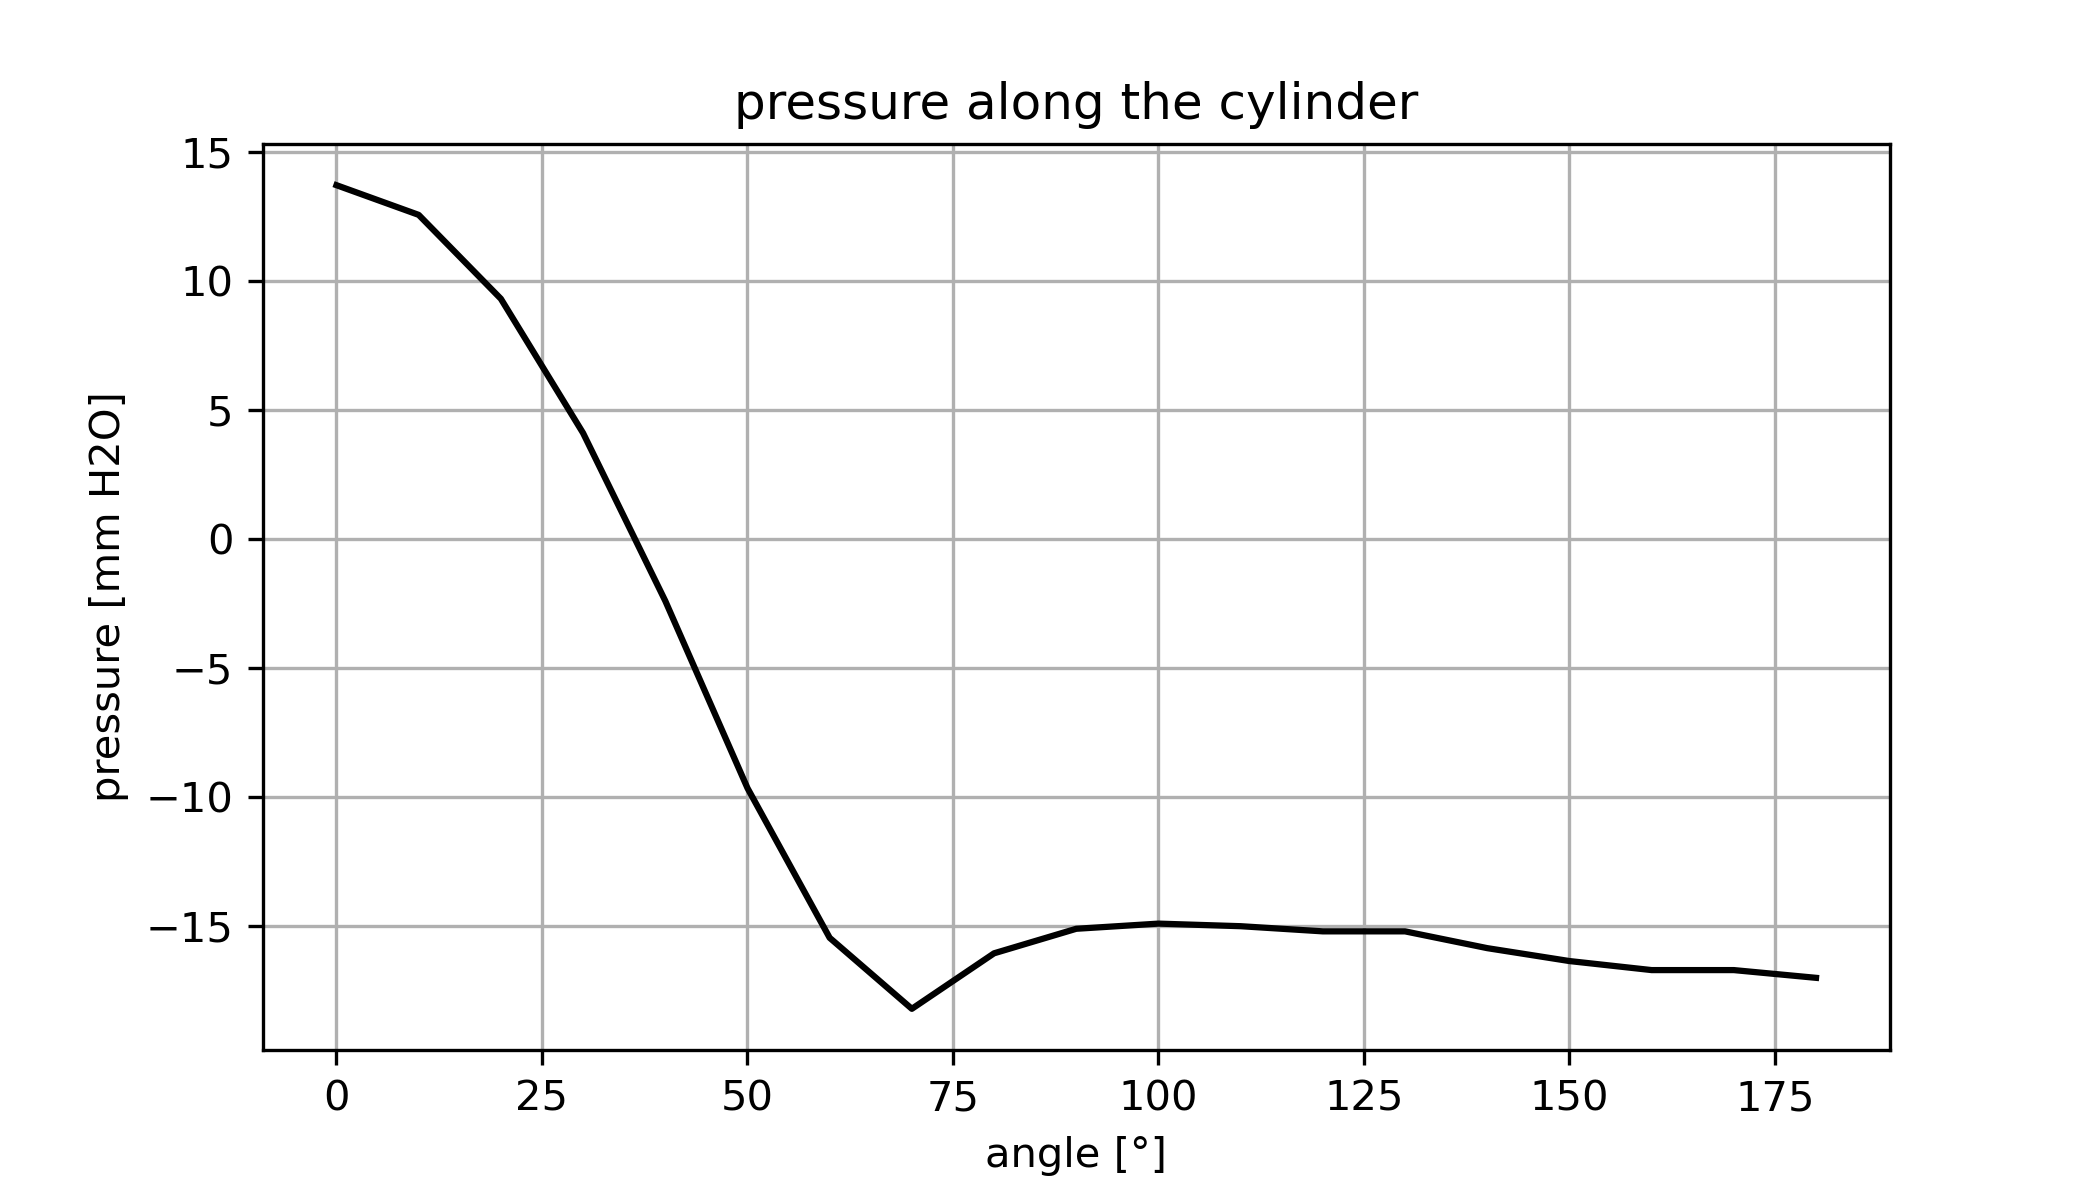
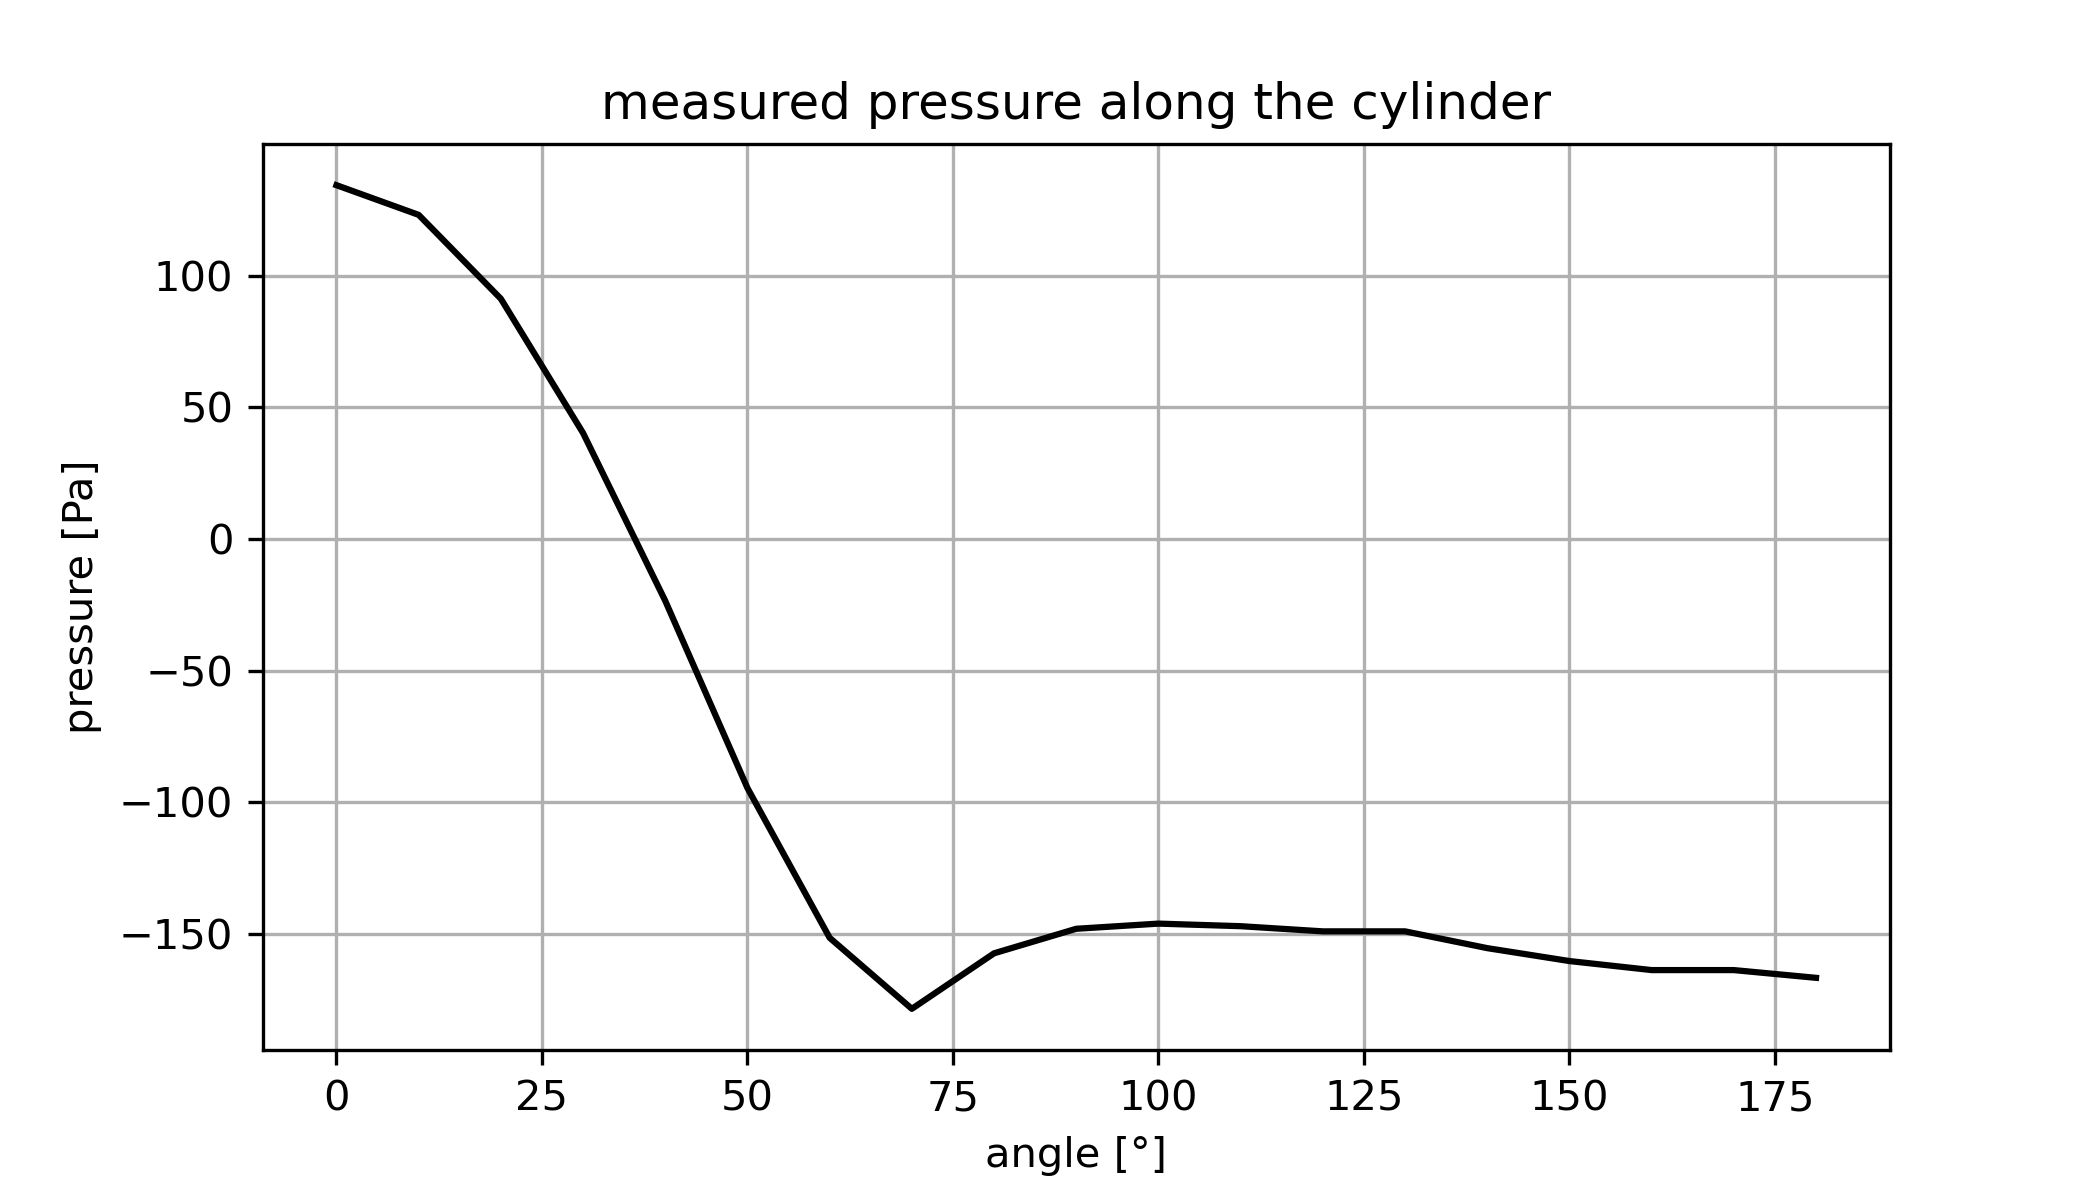
added a lot of things mdr

diff --git a/code.py b/code.py
@@ -5,7 +5,7 @@ import matplotlib.pyplot as plt
 Force = np.array([0, 0.0682, 0.182, 0.295, 0.408, 0.522, 0.635, 0.748, 0.975])*9.81
 Tension = np.array([0.65, 0.97, 1.51, 2, 2.57, 3.1, 3.62, 4.14, 5.12]).reshape((-1, 1))
 
-#%% Interpolation de la tension
+#%% Calibration of drag force
 
 reg = LinearRegression().fit(Tension, Force)
 a = reg.coef_[0]; b = reg.intercept_
@@ -29,23 +29,53 @@ plt.plot([Tension_mesuree], [Force_mesuree], 'xg', markersize=20)
 plt.tight_layout()
 plt.savefig("fig1.png", dpi=300)
 
-#%% Pressure data
+#%% Pressure along the cylinder
 
 pressure_front = np.array([12.7, 13.6, 13.7, 13.4, 12.55]) # pressure in mm H2O from -10° to 10°
 pressure_all = np.array([13.7, 12.55, 9.3, 4.1, -2.4, -9.65, -15.45, -18.2, -16.05, -15.1, -14.9, -15, -15.2, -15.2, -15.85, -16.35, -16.7, -16.7, -17]) # pressure in mm H2O from 0° to 180°
+pressure_front *= 9.80665 # conversion from mm H2O to Pa
+pressure_all *= 9.80665
 angles = np.linspace(0,180,19)
 
 plt.figure(figsize=(7,4))
 plt.xlabel("angle [°]")
-plt.ylabel("pressure [mm H2O]")
-plt.title("pressure along the cylinder")
+plt.ylabel("pressure [Pa]")
+plt.title("measured pressure along the cylinder")
 plt.grid()
 
 plt.plot(angles, pressure_all, 'k')
 
 plt.savefig("fig2.png", dpi=300)
 
-#%%
+#%% Pressure around the stagnation point
 
-pressure_all *= 9.80665 # conversion from mm H2O to Pa
+plt.figure(figsize=(7,4))
+plt.xlabel("angle [°]")
+plt.ylabel("pressure [Pa]")
+plt.title("measured pressure around the stagnation point")
+plt.grid()
+
+coefs = np.polyfit(np.array([-10, -5, 0, 5, 10]), pressure_front, 2)
+x = np.linspace(-10,10,100)
+a = coefs[0]; b = coefs[1]; c = coefs[2]
+plt.plot(x, a*x**2 + b*x + c, '--')
+
+p_max = a*(-b/2/a)**2 + b*(-b/2/a) + c
+print("max dynamic pressure at alpha = {:.3f}° and p = {:.2f}Pa".format(-b/2/a, p_max))
+plt.plot([-b/2/a], [a*(-b/2/a)**2 + b*(-b/2/a) + c], 'xg', markersize=10)
+
+plt.plot([-10, -5, 0, 5, 10], pressure_front, 'o-')
+
+plt.legend(['parabolic interpolation', 'actual data'])
+
+plt.savefig("fig3.png", dpi=300)
+
+#%% Computation of U_inf
+
+rho = 1.225
+U_inf = np.sqrt(2*p_max/rho)
+
+print("Upstream velocity : {:.2f} m/s".format(U_inf))
+
+#%%
 
